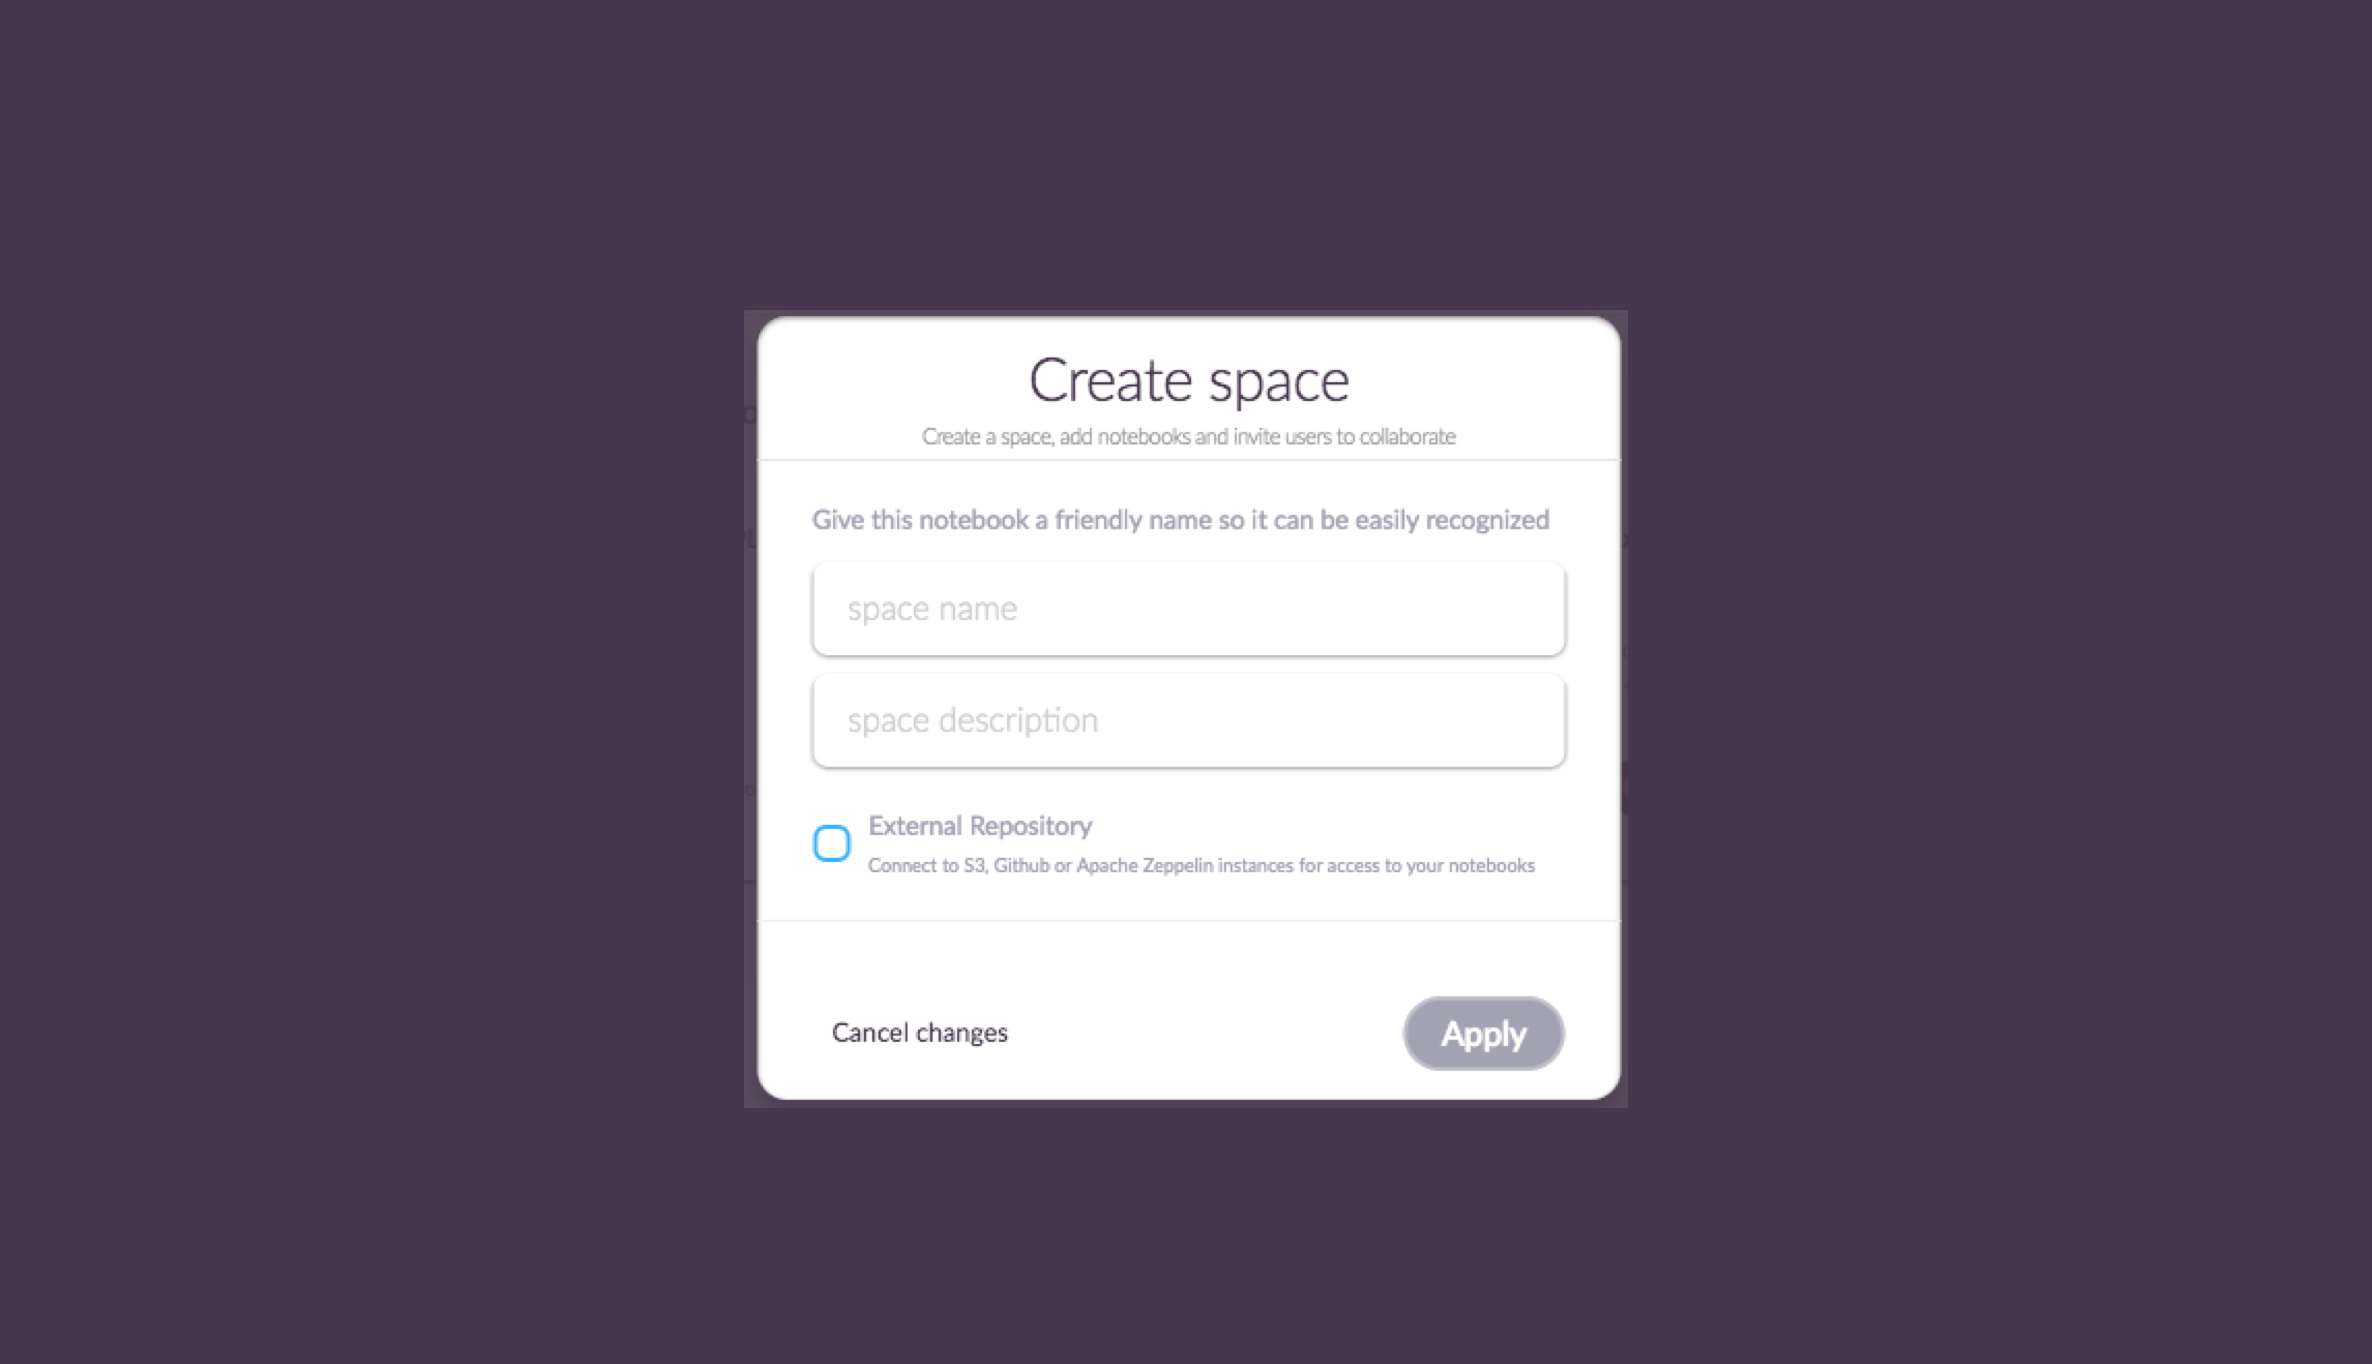
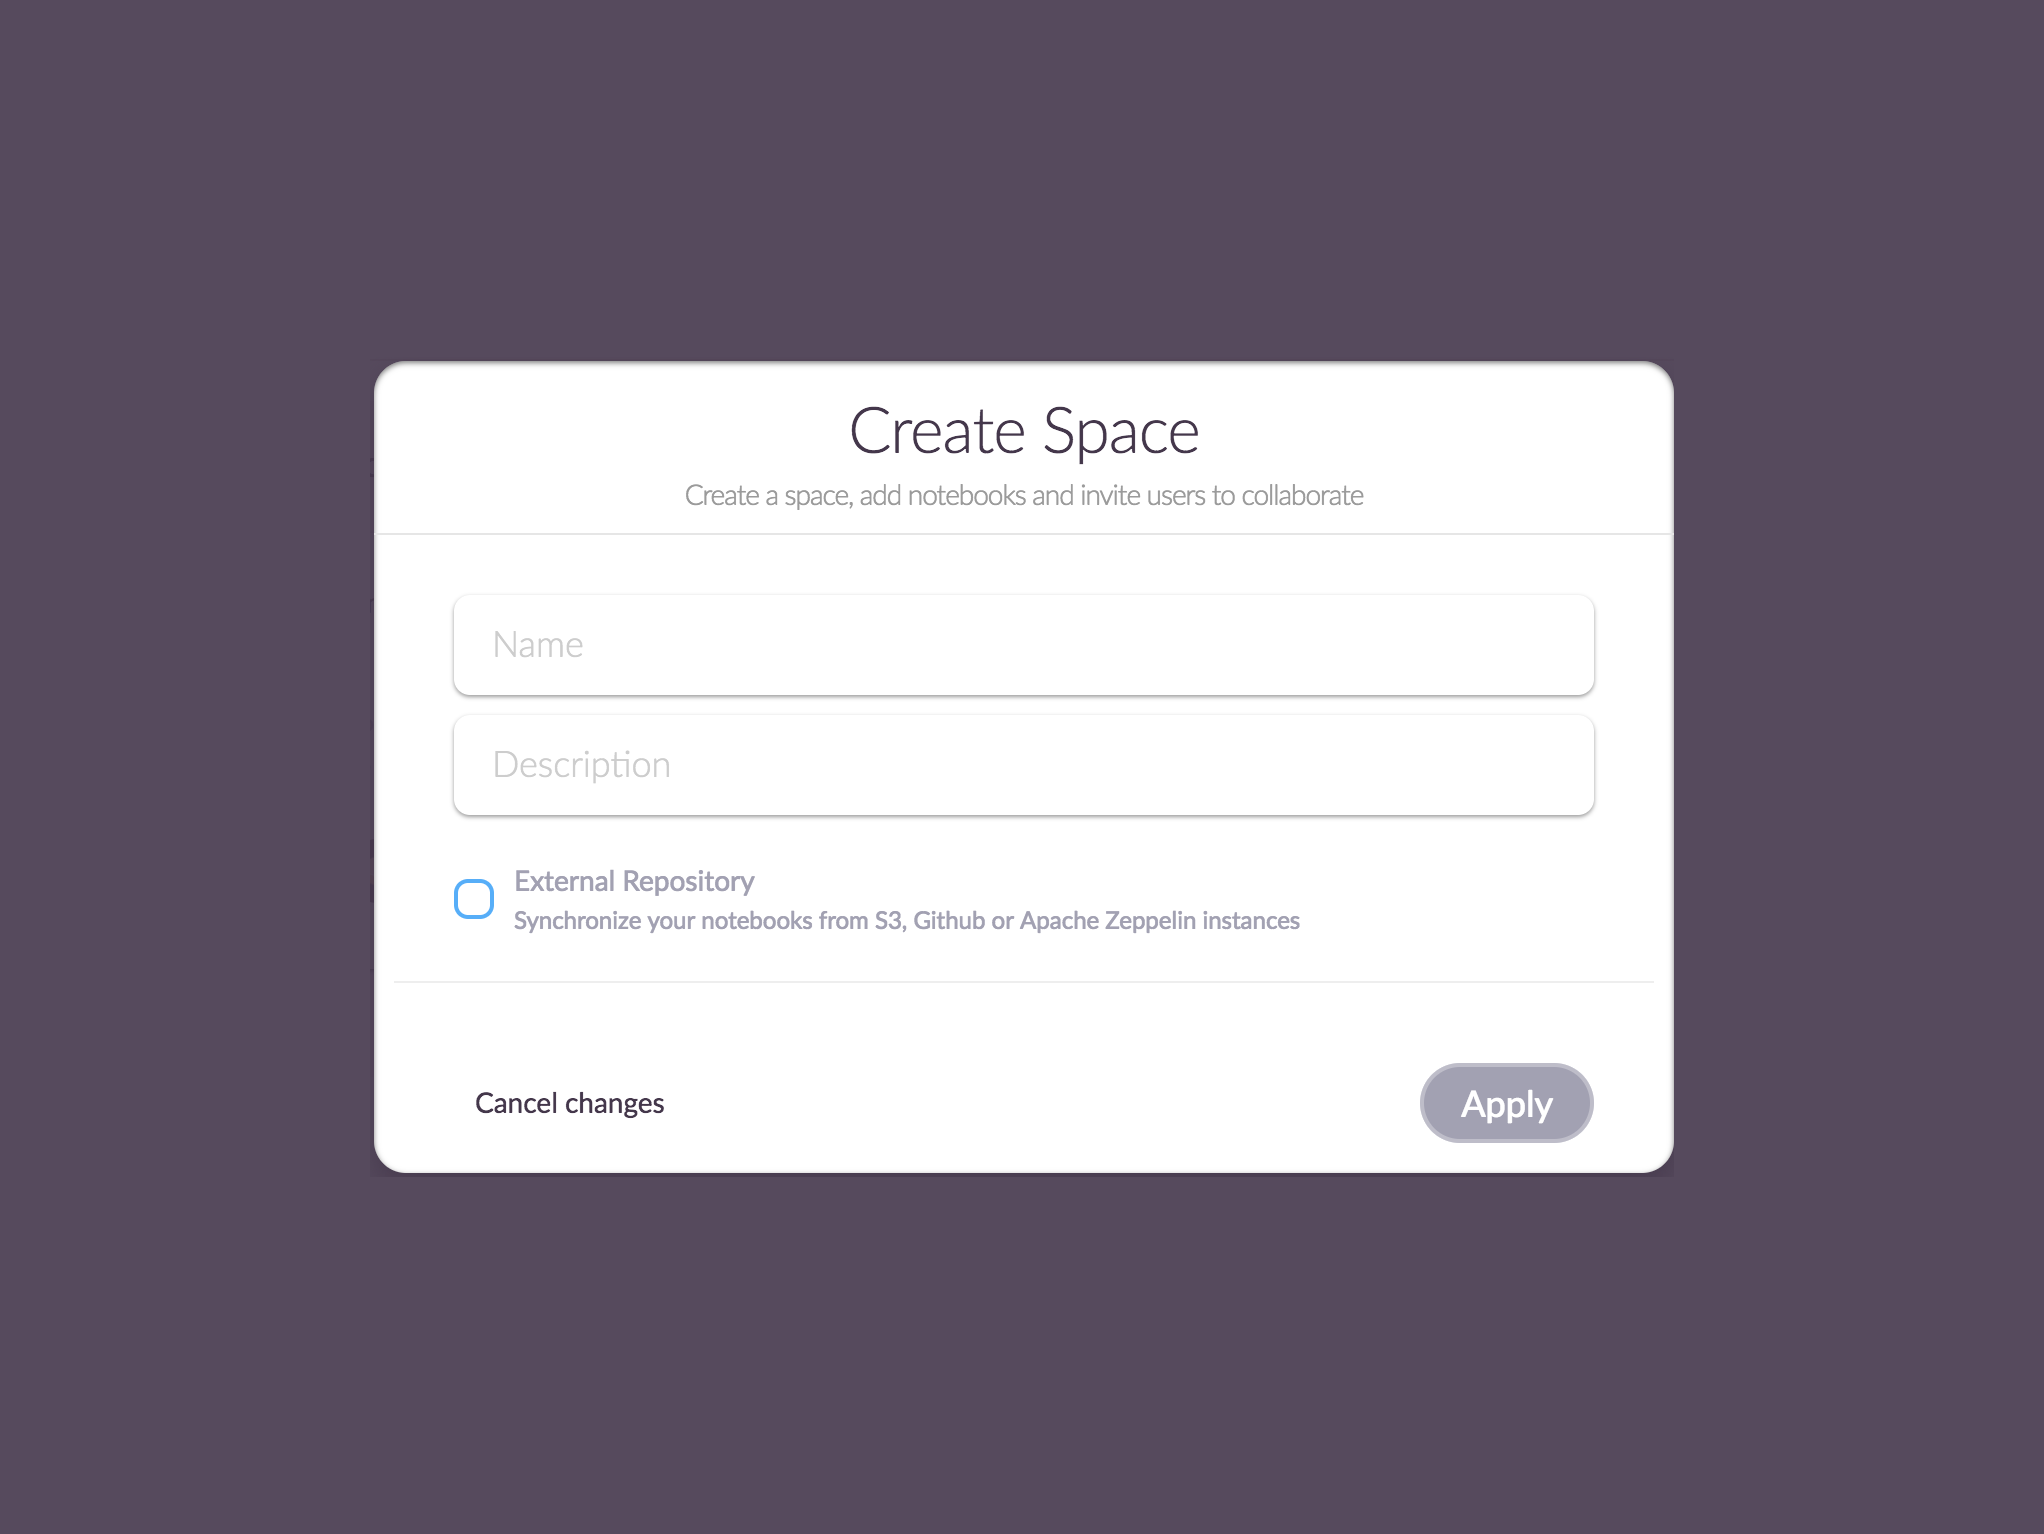
ZEPL-1266 update images(share, publish, import, space)

Changed region(s): [[0.1849, 0.2155, 0.8322, 0.8314]]

diff --git a/docs/guide/sharing_notebooks.md b/docs/guide/sharing_notebooks.md
@@ -15,11 +15,11 @@ Click **"New Space"** button in the main page to create a new Space.
 
 <img src="../../img/create_new_space.png" class="image-box big-img"/>
 
-And write a space name with short description. 
+And write a space name with short description.
 (In this case, you don't need to care about any external repositories)
 
 To connect the space to an external repository like AWS S3, Github or Apache Zeppelin and sync your notebooks, see the following links for the detailed information.
-  
+
   * [How to connect to Apache Zeppelin](../zeppelin_integration)
   * [How to connect to Github](../github_integration)
   * [How to connect to S3](../s3_integration)
@@ -31,9 +31,9 @@ Since you created this space, you are also the space's owner. You can invite col
 <br/ >
 
 ## Sharing Notebooks to Spaces
-You can share and [publish the notebook](exploring_notebook.md) in **Spaces** main page. 
+You can share and [publish the notebook](exploring_notebook.md) in **Spaces** main page.
 
-<img src="../../img/card_share_menu.png" class="card-img" />
+<img src="../../img/share_dropdown.png" class="card-img" />
 
 Or you can find **Share and Publish** button in top-right corner of each notebook and directly do in it.
 <br />
@@ -83,8 +83,8 @@ If you want to make your notebook public and anyone can access to it, just slide
 It will generate the public URL for the notebook. Just copy to the clipboard and visit the site.
 
 Optionally you can select the showcase where your public notebook is located.
-Of course you can choose multiple showcases at a time. If you have no idea about **Showcases** yet, please read [What is the showcase?](exploring_notebooks.md#what-is-the-showcase) section first. 
-Then you can see your notebook under the showcase you chose in **Explore** tab. 
+Of course you can choose multiple showcases at a time. If you have no idea about **Showcases** yet, please read [What is the showcase?](exploring_notebooks.md#what-is-the-showcase) section first.
+Then you can see your notebook under the showcase you chose in **Explore** tab.
 
 
 <br/>

diff --git a/docs/guide/github_integration.md b/docs/guide/github_integration.md
@@ -4,7 +4,7 @@ Github is one of the popular choices that data scientists prefer for
 storing their notebooks. In this section, we will explain how you can
 create a Github Space and synchronize your Github notebooks.
 
-Note that files should be saved in **Apache Zeppelin(note.json)** or
+Note that files should be saved in **Apache Zeppelin(*.json)** or
 **Ipython(*.ipynb)** format.
 
 ## Create a Github Repository Space
@@ -39,7 +39,7 @@ In our example, the dialog form would look similar to the image below:
 
 <img src="../../img/github_space_filled.png" class="image-box big-img"/>
 
-You can now click on **Apply** to create your Github space. ZEPL will first test the connection to the Github repository. If the test succeeds, you will be redirected to the newly created space. 
+You can now click on **Apply** to create your Github space. ZEPL will first test the connection to the Github repository. If the test succeeds, you will be redirected to the newly created space.
 ZEPL will connect automatically to your Github repository and load any notebook it finds. The loaded notebooks should appear inside your repository space.
 
 <img src="../../img/github_space.png" class="image-box big-img"/>

diff --git a/docs/guide/s3_integration.md b/docs/guide/s3_integration.md
@@ -2,6 +2,9 @@
 
 In this section, we will explain how you can create an [Amazon Web Service](https://aws.amazon.com/) S3 Space in Zepl and seamlessly synchronize your notebooks from your own [**S3 Bucket**](https://aws.amazon.com/s3/).
 
+Note that files should be saved in **Apache Zeppelin(*.json)** or
+**Ipython(*.ipynb)** format.
+
 ## Create an AWS S3 Repository Space
 Click **"New Space"** button in the main page to create a new Space and check "External Repository".
 Then select the **S3** from the dropdown menu.
@@ -18,11 +21,11 @@ Fill in the following fields with your AWS access keys and your S3 bucket name a
 
 - AWS Access Key
 
-- AWS Private Key 
+- AWS Private Key
 
 - S3 Bucket name
 
-- S3 Region 
+- S3 Region
 
 A completed form should look like the following image.
 

diff --git a/docs/guide/import_notebook.md b/docs/guide/import_notebook.md
@@ -11,7 +11,7 @@ ZEPL is a service where your Apache Zeppelin and Jupyter Notebooks can be brough
 
 Select the **Import** option from either each (default type) of Space menu or a title bar inside of the space.
 
-<img src="../../img/import_dropdown.png" class="image-box big-img"/>
+<img src="../../img/import_dropdown.png" height="280px" class="image-box big-img"/>
 
 Click **Select File** to upload a new file.
 
